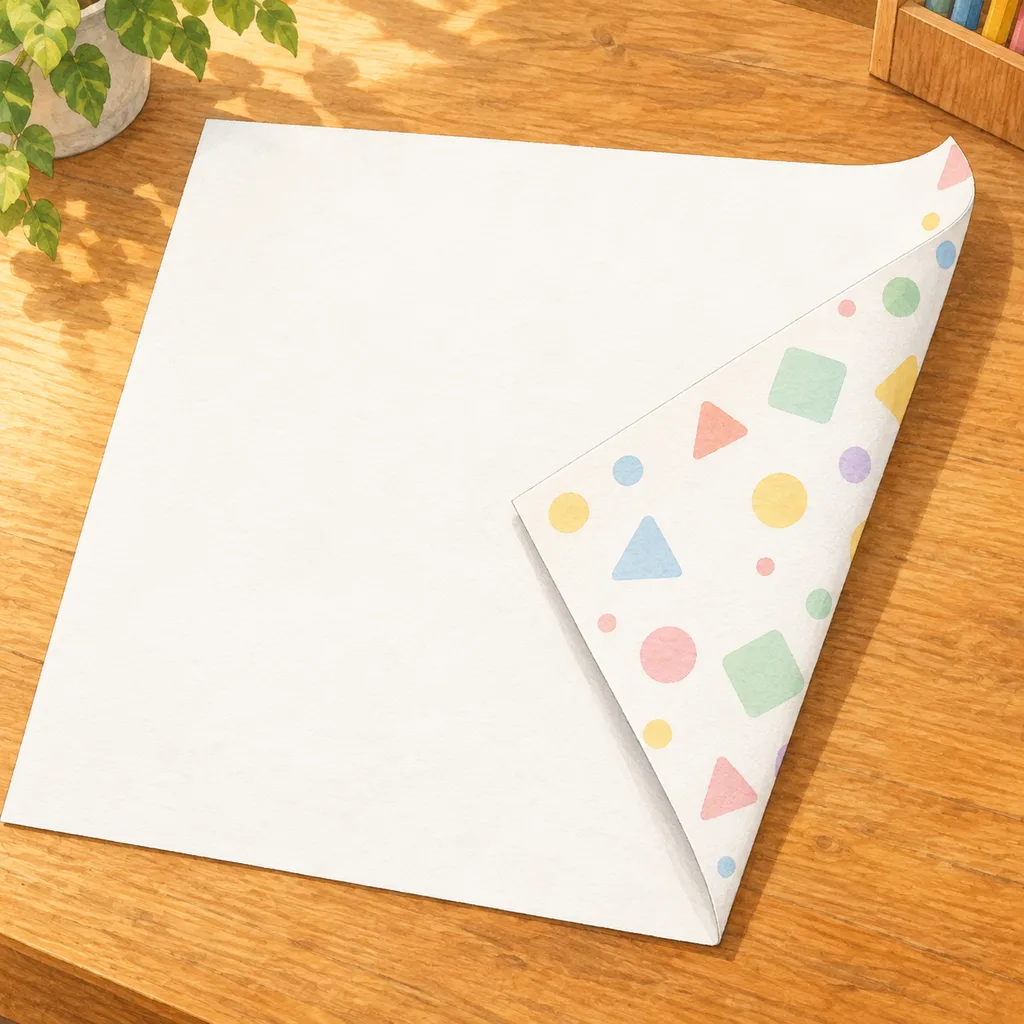
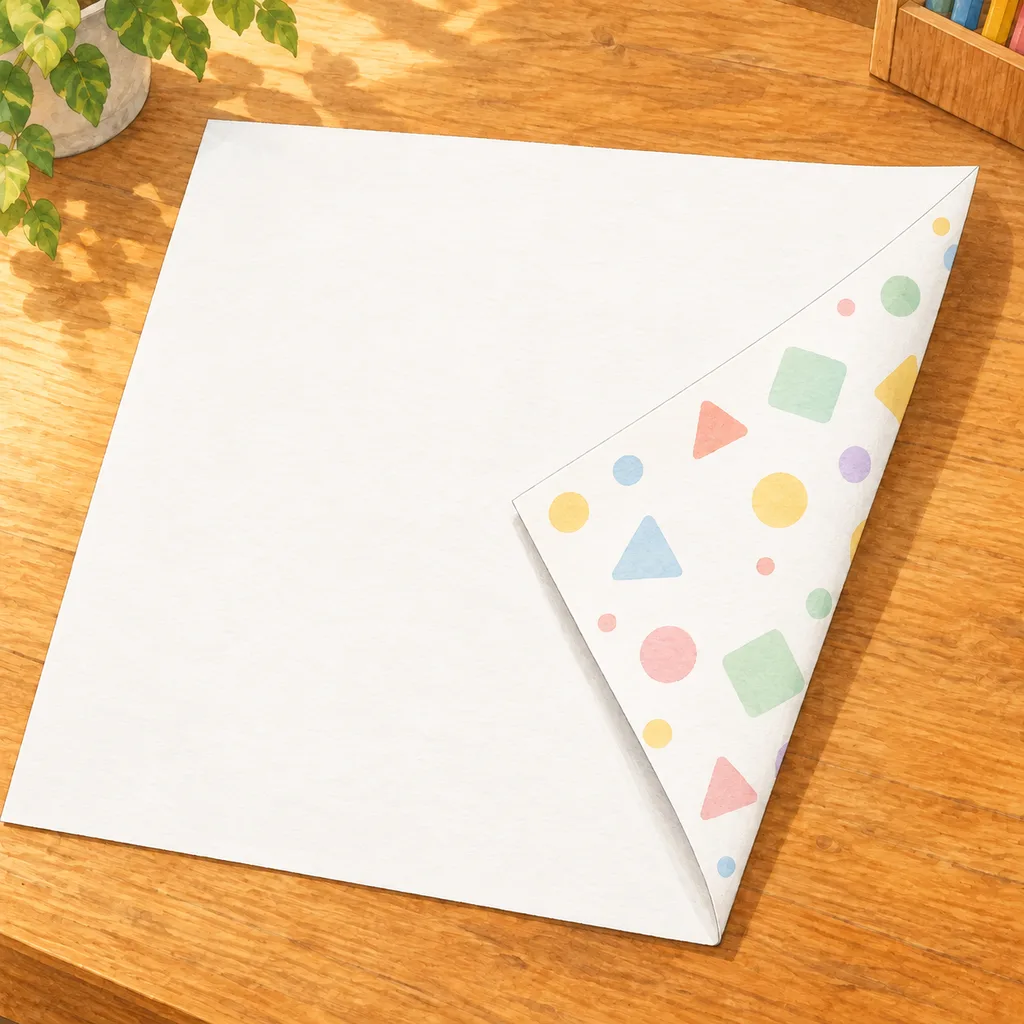
Fix L477 S04 upper-right corner

diff --git a/docs/PARALLEL_LESSON_REGISTRY.md b/docs/PARALLEL_LESSON_REGISTRY.md
@@ -16,7 +16,7 @@ When the teacher wants to prepare 2-3 lessons or review modules at the same time
 
 | Unit | New Character(s) / Kind | Status | Owner / Thread | Branch / Commit | Depends On | Provisional Learned Chars | Request / Packet | Assets | Notes |
 |---|---|---|---|---|---|---|---|---|---|
-| L477 | 緣 | ready-blocked-by-dependency | Production F / parallel-f | `codex/l477-complete-package` | L472:案; L473:反; L474:而; L475:且; L476:故; R057/R058 after L465 | 案、反、而、且、故 | `curriculum-workflow/lesson-requests/L477.json`; `curriculum-workflow/generated/L477-generation-packet.md`; `curriculum-workflow/drafts/L477-draft.json` | `public/assets/lessons/L477/`; `curriculum-workflow/audio-inbox/L477/` | Asset-complete package. Five 1024x1024 WebPs and ten final M4A files complete; exact-Han transcript, charTimings, style/cast/semantic, allowed-character, coverage and Stage 4 audits PASS. S04 final object-only repair completed: no people; flat main area blank, lifted triangular reverse face patterned per teacher reference. Immutable-ref image QA pending repair commit. Release blocked only by R057/R058 and L472-L476. |
+| L477 | 緣 | ready-blocked-by-dependency | Production F / parallel-f | `codex/l477-complete-package` | L472:案; L473:反; L474:而; L475:且; L476:故; R057/R058 after L465 | 案、反、而、且、故 | `curriculum-workflow/lesson-requests/L477.json`; `curriculum-workflow/generated/L477-generation-packet.md`; `curriculum-workflow/drafts/L477-draft.json` | `public/assets/lessons/L477/`; `curriculum-workflow/audio-inbox/L477/` | Asset-complete package. Five 1024x1024 WebPs and ten final M4A files complete; exact-Han transcript, charTimings, style/cast/semantic, allowed-character, coverage and Stage 4 audits PASS. S04 final object-only repair retained; upper-right extra curl/doubled tip removed, leaving one clean corner and continuous edge. Immutable-ref image QA pending repair commit. Release blocked only by R057/R058 and L472-L476. |
 
 ## Status Values
 
